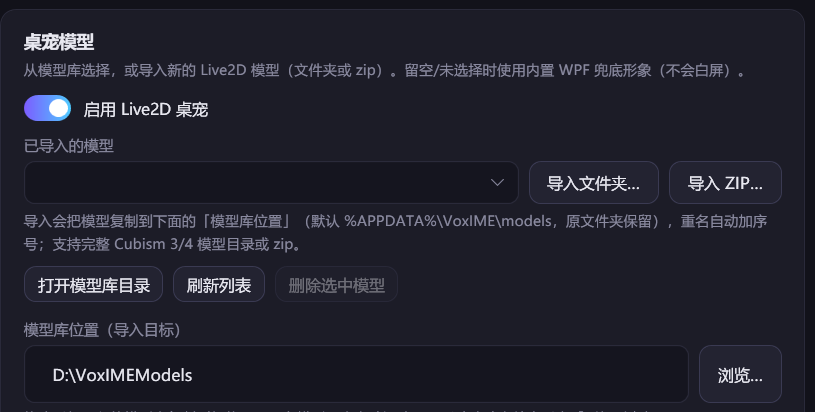
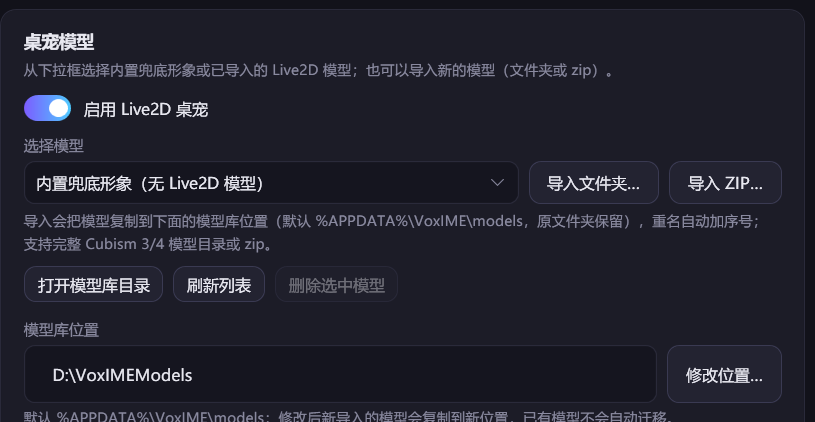
refactor(live2d): 简化模型选择——内置兜底可选，模型库位置改为按钮修改
- 去掉重复的“自定义模型目录”输入框：模型统一从“选择模型”下拉框选
  · 第一项为「内置兜底形象（无 Live2D 模型）」，选中即清空 ModelDirectory，保存后回退内置矢量形象
  · 其余为模型库中已导入模型；旧配置指向库外目录时显示「当前模型（外部目录）：xxx」
- 模型库位置改为只读显示 + 「修改位置…」按钮（默认 %APPDATA%\VoxIME\models，可换盘），
  不再提供第二个可编辑路径，避免两个“位置”混淆
- 删除按钮仅对模型库内模型可用；选中内置/外部目录时自动禁用
- 文档：README、ARCHITECTURE、docs/live2d.md 与截图同步更新
- 验证：315 个离线测试通过；--selftest 0 失败；UIA 实测选中内置兜底后保存，
  config.live2D.modelDirectory 变为空（回退内置形象），模型库位置正常保留

验证：dotnet build VoxIME.sln -c Release（0 警告 0 错误）；dotnet test（315 通过）

diff --git a/src/VoxIME.App/Views/SettingsPages/Live2DPage.xaml b/src/VoxIME.App/Views/SettingsPages/Live2DPage.xaml
@@ -11,11 +11,11 @@
                 <StackPanel>
                     <TextBlock Text="桌宠模型" Style="{StaticResource SectionTitle}" />
                     <TextBlock Style="{StaticResource HintText}" Margin="0,4,0,10"
-                               Text="从模型库选择，或导入新的 Live2D 模型（文件夹或 zip）。留空/未选择时使用内置 WPF 兜底形象（不会白屏）。" />
+                               Text="从下拉框选择内置兜底形象或已导入的 Live2D 模型；也可以导入新的模型（文件夹或 zip）。" />
 
                     <CheckBox Content="启用 Live2D 桌宠" IsChecked="{Binding Live2DEnabled, Mode=TwoWay}" />
 
-                    <TextBlock Text="已导入的模型" Style="{StaticResource FieldLabel}" Margin="0,12,0,5" />
+                    <TextBlock Text="选择模型" Style="{StaticResource FieldLabel}" Margin="0,12,0,5" />
                     <Grid>
                         <Grid.ColumnDefinitions>
                             <ColumnDefinition Width="*" />
@@ -26,7 +26,7 @@
                                   ItemsSource="{Binding AvailableLive2DModels}"
                                   SelectedItem="{Binding SelectedLive2DModel, Mode=TwoWay}"
                                   DisplayMemberPath="Name"
-                                  ToolTip="模型库中的模型；选择后点击“保存”生效" />
+                                  ToolTip="内置兜底形象或模型库中的模型；选择后点击“保存”生效" />
                         <Button Grid.Column="1" Style="{StaticResource SecondaryButton}" Content="导入文件夹…"
                                 Margin="8,0,0,0" Padding="14,7"
                                 Command="{Binding ImportLive2DModelCommand}" />
@@ -35,7 +35,7 @@
                                 Command="{Binding ImportLive2DModelZipCommand}" />
                     </Grid>
                     <TextBlock Style="{StaticResource HintText}" Margin="0,6,0,0"
-                               Text="导入会把模型复制到下面的「模型库位置」（默认 %APPDATA%\VoxIME\models，原文件夹保留），重名自动加序号；支持完整 Cubism 3/4 模型目录或 zip。" />
+                               Text="导入会把模型复制到下面的模型库位置（默认 %APPDATA%\VoxIME\models，原文件夹保留），重名自动加序号；支持完整 Cubism 3/4 模型目录或 zip。" />
 
                     <StackPanel Orientation="Horizontal" Margin="0,8,0,0">
                         <Button Style="{StaticResource SmallButton}" Content="打开模型库目录"
@@ -46,35 +46,22 @@
                                 Command="{Binding DeleteLive2DModelCommand}" />
                     </StackPanel>
 
-                    <TextBlock Text="模型库位置（导入目标）" Style="{StaticResource FieldLabel}" Margin="0,14,0,5" />
+                    <TextBlock Text="模型库位置" Style="{StaticResource FieldLabel}" Margin="0,14,0,5" />
                     <Grid>
                         <Grid.ColumnDefinitions>
                             <ColumnDefinition Width="*" />
                             <ColumnDefinition Width="Auto" />
                         </Grid.ColumnDefinitions>
                         <TextBox Grid.Column="0"
-                                 Text="{Binding ModelLibraryDirectory, UpdateSourceTrigger=PropertyChanged}"
-                                 ToolTip="默认 %APPDATA%\VoxIME\models；可改成空间更大的磁盘目录" />
-                        <Button Grid.Column="1" Style="{StaticResource SecondaryButton}" Content="浏览…"
+                                 Text="{Binding ModelLibraryDirectory, Mode=OneWay}"
+                                 IsReadOnly="True"
+                                 ToolTip="当前模型库位置；点右侧“修改位置…”可更换" />
+                        <Button Grid.Column="1" Style="{StaticResource SecondaryButton}" Content="修改位置…"
                                 Margin="8,0,0,0" Padding="14,7"
                                 Command="{Binding BrowseModelLibraryDirectoryCommand}" />
                     </Grid>
                     <TextBlock Style="{StaticResource HintText}" Margin="0,4,0,0"
-                               Text="修改后新导入的模型会复制到新位置；已有模型不会自动迁移，可手动移动文件夹后点「刷新列表」。" />
-
-                    <TextBlock Text="自定义模型目录（可选，直接使用现成目录）" Style="{StaticResource FieldLabel}" Margin="0,14,0,5" />
-                    <Grid>
-                        <Grid.ColumnDefinitions>
-                            <ColumnDefinition Width="*" />
-                            <ColumnDefinition Width="Auto" />
-                        </Grid.ColumnDefinitions>
-                        <TextBox Grid.Column="0"
-                                 Text="{Binding ModelDirectory, UpdateSourceTrigger=PropertyChanged}"
-                                 ToolTip="例如 %APPDATA%\VoxIME\models\Hiyori，或任意包含 *.model3.json 的目录" />
-                        <Button Grid.Column="1" Style="{StaticResource SecondaryButton}" Content="浏览…"
-                                Margin="8,0,0,0" Padding="14,7"
-                                Command="{Binding BrowseModelDirectoryCommand}" />
-                    </Grid>
+                               Text="默认 %APPDATA%\VoxIME\models；修改后新导入的模型会复制到新位置，已有模型不会自动迁移。" />
 
                     <Grid Margin="0,12,0,0">
                         <Grid.ColumnDefinitions>

diff --git a/src/VoxIME.App/ViewModels/SettingsViewModel.cs b/src/VoxIME.App/ViewModels/SettingsViewModel.cs
@@ -158,11 +158,10 @@ public sealed class SettingsViewModel : ObservableObject, IDisposable
             () => !string.IsNullOrWhiteSpace(SelectedProvider?.Descriptor?.DocsUrl));
 
         TestMicCommand = new AsyncRelayCommand(TestMicrophoneAsync, () => !IsMicTesting);
-        BrowseModelDirectoryCommand = new RelayCommand(BrowseModelDirectory);
         BrowseModelLibraryDirectoryCommand = new RelayCommand(BrowseModelLibraryDirectory);
         ImportLive2DModelCommand = new RelayCommand(ImportLive2DModel);
         ImportLive2DModelZipCommand = new RelayCommand(ImportLive2DModelZip);
-        DeleteLive2DModelCommand = new RelayCommand(DeleteLive2DModel, () => SelectedLive2DModel is not null);
+        DeleteLive2DModelCommand = new RelayCommand(DeleteLive2DModel, CanDeleteLive2DModel);
         RefreshLive2DModelsCommand = new RelayCommand(RefreshLive2DModelLibrary);
         OpenLive2DModelsFolderCommand = new RelayCommand(OpenLive2DModelsFolder);
         ShowLive2DCommand = new RelayCommand(() => SetLive2DVisible(true));
@@ -864,8 +863,11 @@ public sealed class SettingsViewModel : ObservableObject, IDisposable
         private set => SetProperty(ref _live2DStatusText, value);
     }
 
-    /// <summary>模型库里已导入的 Live2D 模型，设置页下拉框选择。</summary>
+    /// <summary>模型库中的模型 + 「内置兜底形象」，设置页下拉框选择。</summary>
     public ObservableCollection<Live2DModelInfo> AvailableLive2DModels { get; } = new();
+
+    /// <summary>下拉框中的“内置兜底形象”选项（不加载 Live2D 模型，使用 WPF 矢量兜底）。</summary>
+    public static Live2DModelInfo BuiltInFallbackModel { get; } = new("内置兜底形象（无 Live2D 模型）", string.Empty, string.Empty);
 
     /// <summary>模型库根目录（导入目标），默认 %APPDATA%\VoxIME\models，可在设置页修改。</summary>
     public string ModelLibraryDirectory
@@ -892,17 +894,22 @@ public sealed class SettingsViewModel : ObservableObject, IDisposable
                 return;
             }
 
-            if (value is not null && !string.Equals(ModelDirectory, value.Directory, StringComparison.OrdinalIgnoreCase))
+            if (value is not null)
             {
-                ModelDirectory = value.Directory;
-                StatusText = $"已选择模型“{value.Name}”，点击“保存”后生效。";
+                var directory = value.Directory ?? "";
+                if (!string.Equals((ModelDirectory ?? "").Trim(), directory, StringComparison.OrdinalIgnoreCase))
+                {
+                    ModelDirectory = directory;
+                    StatusText = directory.Length == 0
+                        ? "已选择内置兜底形象，点击“保存”后生效。"
+                        : $"已选择模型“{value.Name}”，点击“保存”后生效。";
+                }
             }
 
             DeleteLive2DModelCommand.RaiseCanExecuteChanged();
         }
     }
 
-    public RelayCommand BrowseModelDirectoryCommand { get; }
     public RelayCommand BrowseModelLibraryDirectoryCommand { get; }
     public RelayCommand ImportLive2DModelCommand { get; }
     public RelayCommand ImportLive2DModelZipCommand { get; }
@@ -1407,30 +1414,6 @@ public sealed class SettingsViewModel : ObservableObject, IDisposable
 
     // ==================== 桌宠页逻辑 ====================
 
-    private void BrowseModelDirectory()
-    {
-        try
-        {
-            var dialog = new OpenFolderDialog
-            {
-                Title = "选择 Live2D 模型目录（包含 *.model3.json）",
-                Multiselect = false
-            };
-
-            if (dialog.ShowDialog() == true)
-            {
-                ModelDirectory = dialog.FolderName;
-                SyncSelectedLive2DModelFromDirectory();
-                StatusText = "已选择模型目录，点击“保存”后生效。";
-            }
-        }
-        catch (Exception ex)
-        {
-            _logger.Warn($"选择模型目录失败：{ex.Message}");
-            Ui.Warn("无法打开目录选择框：" + ex.Message);
-        }
-    }
-
     private void BrowseModelLibraryDirectory()
     {
         try
@@ -1484,6 +1467,7 @@ public sealed class SettingsViewModel : ObservableObject, IDisposable
         {
             var models = CreateModelLibrary().Scan();
             AvailableLive2DModels.Clear();
+            AvailableLive2DModels.Add(BuiltInFallbackModel);
             foreach (var model in models)
             {
                 AvailableLive2DModels.Add(model);
@@ -1500,11 +1484,51 @@ public sealed class SettingsViewModel : ObservableObject, IDisposable
     private void SyncSelectedLive2DModelFromDirectory()
     {
         var directory = (ModelDirectory ?? "").Trim();
-        var match = AvailableLive2DModels.FirstOrDefault(
-            m => string.Equals(m.Directory, directory, StringComparison.OrdinalIgnoreCase));
+        Live2DModelInfo? match;
+        if (directory.Length == 0)
+        {
+            match = BuiltInFallbackModel;
+        }
+        else
+        {
+            match = AvailableLive2DModels.FirstOrDefault(
+                m => m.Directory.Length > 0 && string.Equals(m.Directory, directory, StringComparison.OrdinalIgnoreCase));
+            if (match is null)
+            {
+                // 兼容旧配置：模型目录不在模型库中时，在下拉框显示“当前模型（外部目录）”，
+                // 这样用户既能看到实际加载的模型，也可以随时切回内置兜底形象。
+                var name = Path.GetFileName(directory);
+                if (string.IsNullOrEmpty(name))
+                {
+                    name = directory;
+                }
+
+                match = new Live2DModelInfo($"当前模型（外部目录）：{name}", directory, string.Empty);
+                AvailableLive2DModels.Add(match);
+            }
+        }
+
         _selectedLive2DModel = match;
         OnPropertyChanged(nameof(SelectedLive2DModel));
         DeleteLive2DModelCommand.RaiseCanExecuteChanged();
+    }
+
+    private bool CanDeleteLive2DModel()
+    {
+        var selected = SelectedLive2DModel;
+        if (selected is null || selected.Directory.Length == 0)
+        {
+            return false;
+        }
+
+        try
+        {
+            return CreateModelLibrary().Contains(selected.Directory);
+        }
+        catch (Exception ex) when (ex is ArgumentException or IOException or UnauthorizedAccessException)
+        {
+            return false;
+        }
     }
 
     private void ImportLive2DModel()
@@ -1580,7 +1604,7 @@ public sealed class SettingsViewModel : ObservableObject, IDisposable
     private void DeleteLive2DModel()
     {
         var selected = SelectedLive2DModel;
-        if (selected is null)
+        if (selected is null || selected.Directory.Length == 0)
         {
             return;
         }

diff --git a/docs/live2d.md b/docs/live2d.md
@@ -121,24 +121,25 @@ Hiyori/
 - 贴图/动作文件缺失会导致 WebView2 侧加载失败 → 触发 `{type:"error"}` → 自动降级兜底形象。
 - 模型目录通过虚拟主机 `https://voxime.models/` 暴露（`Allow` CORS，因为 moc3/贴图是跨源
   fetch 请求）；路径内中文/空格会按 URL segment 转义。
-- 用户自带模型只需把整个模型文件夹（含 model3.json 引用的所有文件）放到任意目录，然后在
-  「设置 → 桌宠 → 选择模型目录」选中该文件夹。**VoxIME 不附带任何商业模型。**
+- 用户自带模型可在「设置 → 桌宠 → 选择模型」里导入（见 4.1 模型库），也可以手动放进模型库目录后点「刷新列表」。**VoxIME 不附带任何商业模型。**
 
 ### 4.1 模型库导入与切换（推荐）
 
-「设置 → 桌宠 → 已导入的模型」提供模型库管理：
+「设置 → 桌宠 → 选择模型」提供模型库管理：
 
+- **内置兜底形象**：下拉框第一项是「内置兜底形象（无 Live2D 模型）」，选择它即可切回内置矢量形象（不加载模型）。
 - **导入文件夹…**：选择包含 `*.model3.json` 的模型目录，VoxIME 会把整个目录复制到
-  「模型库位置」（默认 `%APPDATA%\VoxIME\models\<模型名>\`，可改成其它磁盘目录；原目录保留，不改动）。
+  「模型库位置」（默认 `%APPDATA%\VoxIME\models\<模型名>\`；原目录保留，不改动）。
 - **导入 ZIP…**：选择 zip 包（可包含一层模型目录），自动解压后按同样方式导入；
   压缩包内含多个模型时提示分别导入。
-- **模型库位置**：可直接编辑或点「浏览…」指定导入目标（适合模型很大、C 盘空间不足的情况）；
+- **模型库位置**：默认 `%APPDATA%\VoxIME\models`；点右侧「修改位置…」可换到其它磁盘目录（适合模型很大、C 盘空间不足）。
   只影响之后的导入，已有模型不会自动迁移。
 - 导入后出现在下拉框中，选择不同模型即可在多个模型间切换（点击「保存」后应用到桌宠）。
 - **打开模型库目录**：直接查看/手动放入模型（手动放入后点「刷新列表」）。
 - **删除选中模型**：只删除模型库里的副本（有二次确认），不会影响你原来的文件夹。
 - 模型名优先取 `*.model3.json` 的文件名（如 `Hiyori.model3.json` → Hiyori），重名自动追加 `(2)`、`(3)`。
-- 也可以继续用下面「自定义模型目录（可选）」直接指定任意现成目录，不复制进模型库。
+- 兼容旧配置：如果 `ModelDirectory` 指向模型库之外的外部目录，下拉框会显示「当前模型（外部目录）：xxx」，
+  可以随时切回内置兜底形象。
 
 ![Live2D 模型库导入与切换](screenshots/live2d-model-library.png)
 
@@ -147,7 +148,7 @@ Hiyori/
 | 字段 | 默认 | 说明 |
 |---|---|---|
 | `Enabled` | true | 是否启用桌宠子系统；false 时 Initialize 后窗口保持隐藏（显式 `Show()` 仍可显示） |
-| `ModelDirectory` | null | 含 `.model3.json` 的目录；null/空 → 显示内置兜底形象（不算错误） |
+| `ModelDirectory` | null | 当前模型的目录（由「选择模型」下拉框写入）；null/空 → 内置兜底形象 |
 | `ModelLibraryDirectory` | null | 模型库根目录（导入目标）；null/空 → `%APPDATA%\VoxIME\models`；可改到其它磁盘 |
 | `Width`/`Height` | 380/560 | 桌宠窗口尺寸（DIP，clamp 160..1600） |
 | `Left`/`Top` | -1/-1 | 窗口左上角（DIP）；-1 → 自动吸附主屏工作区右下角；用户拖动后位置会保留 |
@@ -418,7 +419,7 @@ $exe = "src/VoxIME.Live2D/devtools/Live2DTools/bin/Debug/net10.0-windows10.0.177
 | 嘴巴不动 | 模型未声明 `LipSync` 组且没有 `ParamMouthOpenY`；或 `MouthSync=false`/音量为 0 |
 | 眼动不跟随 | 模型没有 `ParamEyeBallX/Y`/`ParamAngleX/Y`；或 `EyeFollow=false` |
 | 点击穿透失效/拖不动 | `ClickThrough=true` 时整窗穿透（鼠标事件给下层窗口），这是预期；需要拖动时在设置里关闭点击穿透（或 `ApplyConfig` 热切换），此时窗口整体可拖动 |
-| 打开设置里选择模型目录后没变化 | `ApplyConfig` 会重新加载；若目录中模型过多，递归查找取层级最浅的第一个；确认目录里有 `*.model3.json` |
+| 导入/选择模型后没变化 | 需要点「保存」应用配置；确认模型目录里有 `*.model3.json`；导入会复制到模型库位置，可点「打开模型库目录」核对 |
 | 多开应用时 WebView2 报错/卡住 | WebView2 用户数据目录被占用。产品默认使用 `%APPDATA%\VoxIME\webview2`，多实例请只保留一个；开发/验证可用环境变量 `VOXIME_LIVE2D_USER_DATA_DIR` 指定独立目录 |
 | 截图里看不到模型/白屏 | headless 简单模式不支持动画（fps=0）；用 9.4 的 CDP 脚本或真实窗口工具；确认 `--enable-unsafe-swiftshader`（无 GPU 环境） |
 | 高 DPI 下窗口位置偏移 | 窗口/位置/尺寸均使用 WPF DIP；`GetWindowRect` 只用于开发期截图像素坐标。应用需为 PerMonitorV2 DPI 感知（VoxIME.App 的 app.manifest 已配置） |

diff --git a/docs/ARCHITECTURE.md b/docs/ARCHITECTURE.md
@@ -177,7 +177,7 @@ sequenceDiagram
 - 降级链：WebView2 不可用 / 模型加载失败 / 未配置模型 → WPF 内置矢量兜底形象（呼吸、眨眼、口型、聆听波纹、思考/出错动画）。
 - 状态映射：Idle（待机动作循环 + 随机眨眼）、Listening（表情 + 口型跟随麦克风）、Thinking（思考动作/表情）、Speaking（口型跟随 TTS 音量）、Error（抖动/红色提示）。
 - 眼动：独立后台线程按 `Live2DConfig.EyeFollowFps`（5–300Hz，默认 30）采样全局光标位置，归一化为 `-1..1`（上下方向已修正）；UI 渲染帧（`CompositionTarget.Rendering`，通常等于显示器刷新率）再把最新值下发给模型，避免高频 DispatcherTimer 挤占 UI 线程导致抖动；`EyeFollow=false` 时停止采样并归零。
-- 模型库：`VoxIME.Core.Services.Live2DModelLibrary` 负责扫描/导入/删除模型库目录（默认 `%APPDATA%\VoxIME\models`，可由 `Live2DConfig.ModelLibraryDirectory` 改到其它磁盘；支持文件夹与 zip，重名自动编号，禁止删除库外目录）；设置页下拉框选择模型后仍只把 `Live2DConfig.ModelDirectory` 写入配置，桌宠加载逻辑不变。
+- 模型库：`VoxIME.Core.Services.Live2DModelLibrary` 负责扫描/导入/删除模型库目录（默认 `%APPDATA%\VoxIME\models`，可由 `Live2DConfig.ModelLibraryDirectory` 改到其它磁盘；支持文件夹与 zip，重名自动编号，禁止删除库外目录）；设置页「选择模型」下拉框包含「内置兜底形象」+ 已导入模型（旧配置的外部目录会显示为「当前模型（外部目录）」），选择后只把 `Live2DConfig.ModelDirectory` 写入配置，桌宠加载逻辑不变。
 
 ### 5.7 主控制器（`VoxIME.Core.Services.VoiceInputController`）
 

diff --git a/README.md b/README.md
@@ -94,9 +94,9 @@ dotnet run --project src/VoxIME.App
 
 ## 🧩 Live2D 模型
 
-- 支持 Live2D **Cubism 3 / Cubism 4** 模型目录：选择包含 `.model3.json` 的文件夹即可（需包含 `.moc3`、贴图、动作/物理文件）。
-- **模型库导入**：设置 → 桌宠 → 「导入文件夹…」/「导入 ZIP…」，模型会复制到模型库位置（默认 `%APPDATA%\VoxIME\models`，可在设置页改到其它磁盘），之后可在下拉框里随时切换不同模型（原文件夹保留；重名自动加序号；可打开模型库目录或删除副本）。
-- 没有模型也能用：内置矢量兜底形象（呼吸、眨眼、口型、聆听波纹、思考/出错动画）。
+- 支持 Live2D **Cubism 3 / Cubism 4** 模型（`.model3.json`，需包含 `.moc3`、贴图、动作/物理文件）。
+- **模型管理**：设置 → 桌宠 → 「选择模型」下拉框可切换已导入模型或「内置兜底形象」；用「导入文件夹…」/「导入 ZIP…」把模型复制到模型库（默认 `%APPDATA%\VoxIME\models`，原文件夹保留；重名自动加序号；点「修改位置…」可换到其它磁盘；可打开模型库目录或删除副本）。
+- 没有模型也能用：内置矢量兜底形象（呼吸、眨眼、口型、聆听波纹、思考/出错动画），可在下拉框中随时选回。
 - 官方示例模型（Hiyori / Haru 等）可从 Live2D 官方 CubismWebSamples 获取：
   ```powershell
   .\scripts\fetch-sample-model.ps1   # 下载 Hiyori 到 assets\live2d\models\Hiyori
